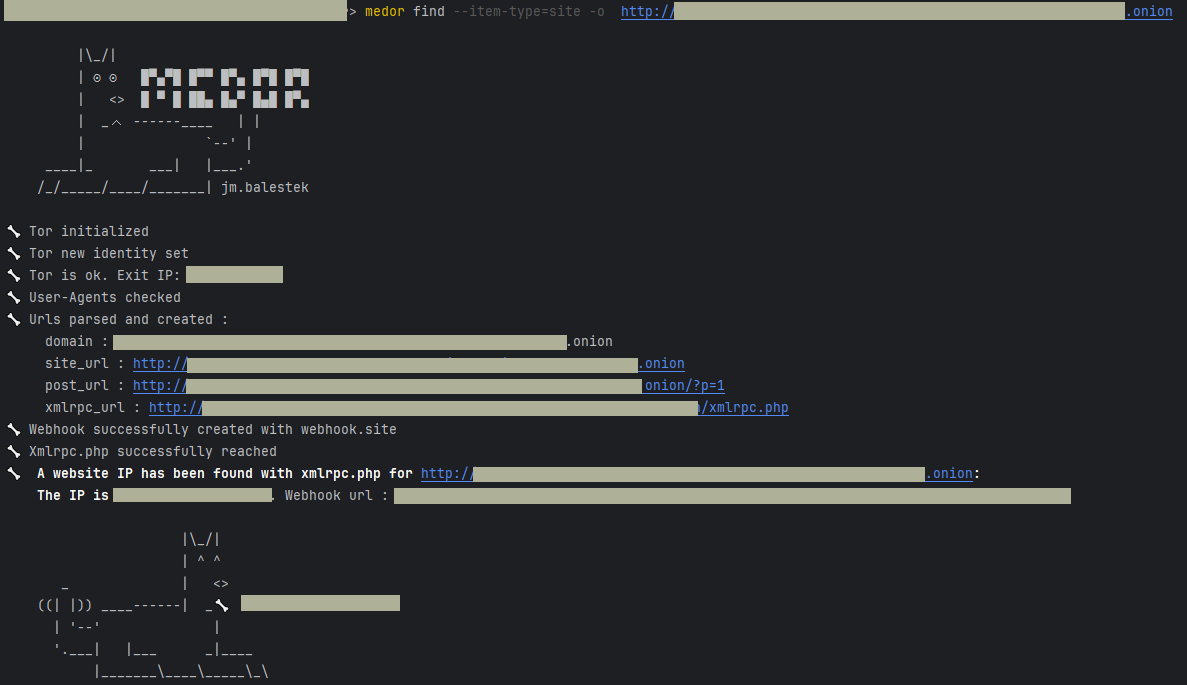
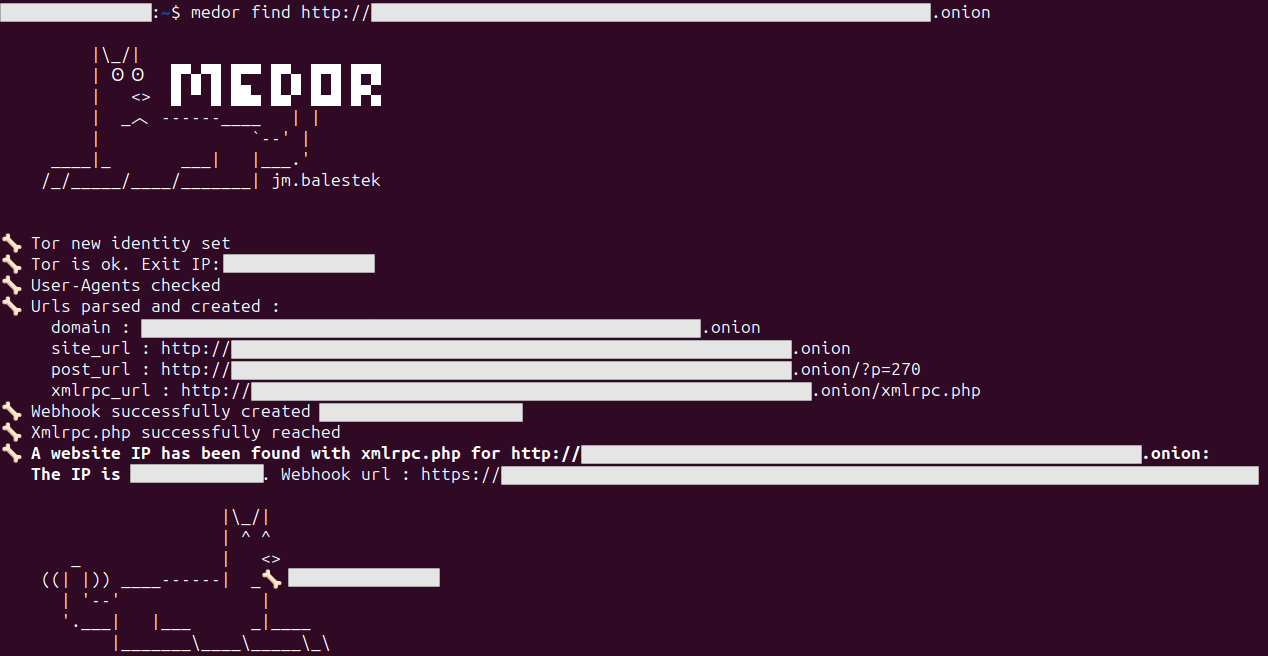
typo + tor fix

diff --git a/medor/utils/bone.py b/medor/utils/bone.py
@@ -49,10 +49,15 @@ class Bone:
             input_type = "domain"
         elif valid_url(item):
             parsed = urlparse(item)
-            if (parsed.scheme == "https" or "http") and parsed.netloc:
-                if parsed.path == "" or parsed.path == "/":
+            if (parsed.scheme == "https" or parsed.scheme == "http") and parsed.netloc:
+                if (
+                    (parsed.path == "" or parsed.path == "/")
+                    and parsed.params == ""
+                    and parsed.query == ""
+                    and parsed.fragment == ""
+                ):
                     input_type = "site"
-                elif parsed.path:
+                else:
                     input_type = "post"
         else:
             spinner.stop_and_persist(
@@ -118,7 +123,6 @@ class Bone:
             domain = ".".join(urlparse(site_url).netloc.split(".")[-2:])
         if ptype == "post":
             post_url = item
-            self.test_url(post_url)
             site_url = f"{urlparse(post_url).scheme}://{urlparse(post_url).netloc}"
             domain = ".".join(urlparse(post_url).netloc.split(".")[-2:])
         xmlrpc_url = site_url + "/xmlrpc.php"
@@ -162,8 +166,8 @@ class Bone:
             return post
         spinner.stop_and_persist(
             symbol=failure,
-            text=f"{Fore.RED}Medor can't find a post.\n"
-            """   Find a post manually and use item_type=post""",
+            text=f"{Fore.RED}medor can't find a post.\n"
+            "   Find a post manually to use with medor."
         )
         exit()
 
@@ -348,7 +352,7 @@ class Bone:
                     symbol=success,
                     text=f"{Style.BRIGHT}The website IP found with xmlrpc.php is different from {site_url} ({waf_ip}):\n"
                     f"   The IP medor found is {Fore.GREEN}{webhook_ip}{Style.RESET_ALL}. "
-                    f"   Webhook url : https://webhook.site/#!/view/{token} (valid for 3 days){Fore.RESET}\n"
+                    f"Webhook url : https://webhook.site/#!/view/{token} (valid for 3 days){Fore.RESET}\n"
                     f"{found(webhook_ip)}",
                 )
                 exit()
@@ -358,7 +362,7 @@ class Bone:
                     symbol=success,
                     text=f"{Style.BRIGHT}A website IP has been found with xmlrpc.php for {site_url}:\n"
                     f"   The IP is {Fore.GREEN}{webhook_ip}{Style.RESET_ALL}. "
-                    f"   Webhook url : https://webhook.site/#!/view/{token} (valid for 3 days){Fore.RESET}\n"
+                    f"Webhook url : https://webhook.site/#!/view/{token} (valid for 3 days){Fore.RESET}\n"
                     f"{found(webhook_ip)}",
                 )
                 exit()

diff --git a/medor/utils/tor.py b/medor/utils/tor.py
@@ -1,5 +1,6 @@
 # coding: utf-8
 import os
+import time
 from pathlib import Path
 
 import httpx
@@ -195,9 +196,12 @@ class Tor:
             f"   https://github.com/balestek/medor?tab=readme-ov-file#install-tor",
         )
         tor_path = input(
-            f"➡ Tor binary path:\n"
-            f"""  Linux and OSX : "tor"\n"""
-            f"Windows: full path to tor.exe. E.g." + r"C:\Tor\tor.exe" + "\n"
+            f"""➡ Tor binary path or command:\n"""
+            f"""       Linux and OSX : "tor"\n"""
+            f"""       Windows: full path to tor.exe. E.g. """
+            + r"C:\Tor\tor.exe"
+            + "\n"
+            f"""   Enter the path: """
         )
         if len(tor_path) == 0:
             spinner.stop_and_persist(
@@ -206,6 +210,8 @@ class Tor:
             )
             exit()
         self.tor_path = str(Path(tor_path))
+        self.tor_port = 9150
+        self.tor_controller_port = 9151
         # Test if tor is working with the path
         try:
             test_tor = process.launch_tor_with_config(
@@ -240,9 +246,9 @@ class Tor:
                 )
             exit()
         test_tor.terminate()
+        time.sleep(1)
         # Set tor path in .env file
         set_key(Path(__file__).parent.parent.joinpath(".env"), "tor_path", tor_path)
         spinner.stop_and_persist(
-            symbol=success,
-            text=f"{Fore.GREEN}Tor path successfully set.\n"
+            symbol=success, text=f"{Fore.GREEN}Tor path successfully set.\n"
         )

diff --git a/medor/utils/net.py b/medor/utils/net.py
@@ -41,10 +41,7 @@ class Net:
             "Upgrade-Insecure-Requests": "1",
             "User-Agent": "Mozilla/5.0 (X11; Ubuntu; Linux x86_64; rv:109.0) Gecko/20100101 Firefox/121.0",
         }
-        self.onion_pattern = r"^https?://[a-z2-7]{16,56}\.onion/?$"
-        load_dotenv()
-        self.tor_ip = os.getenv("tor_ip")
-        self.tor_port = os.getenv("tor_port")
+        self.onion_pattern = r"^http[s]?://[a-z2-7]{16,56}\.onion(/.*|)$"
 
     def connect(self, url, rtype="get", headers=None, content=None) -> httpx.Response:
         # Request to URLs function
@@ -53,7 +50,7 @@ class Net:
             headers = self.rand_headers()
         # Build the socks5 proxy url for onion requests and set a longer timeout as onion requests are slower
         if self.onion:
-            self.proxy = f"socks5://{self.tor_ip}:{self.tor_port}"
+            self.proxy = "socks5://127.0.0.1:9150"
             self.timeout = 15.0
         with httpx.Client(headers=headers, proxy=self.proxy, timeout=self.timeout) as c:
             # Make the request, get/post logic
